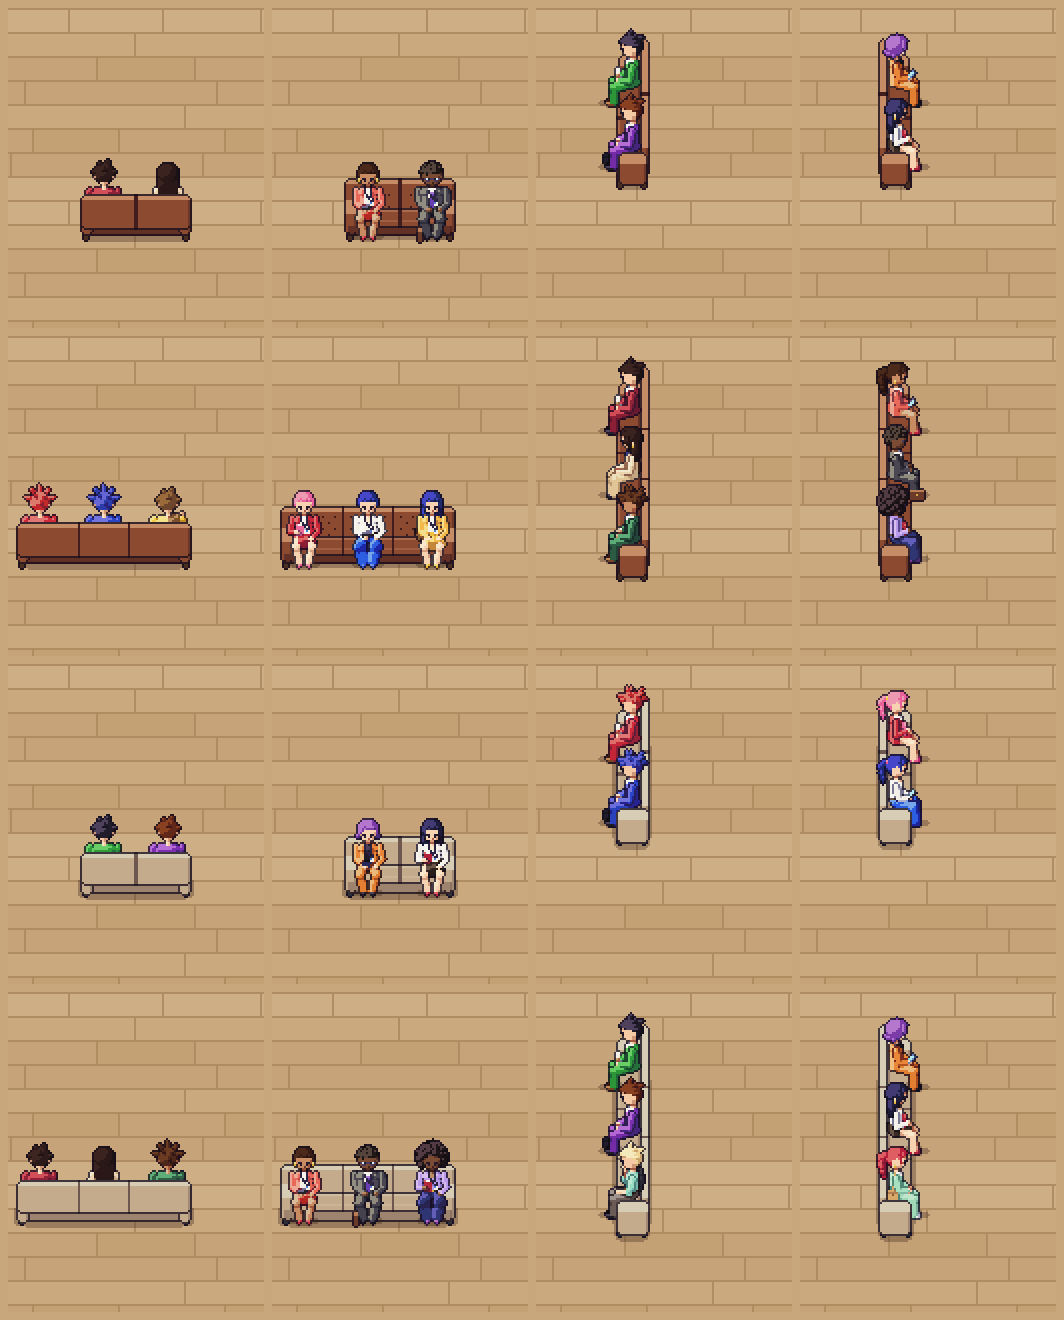
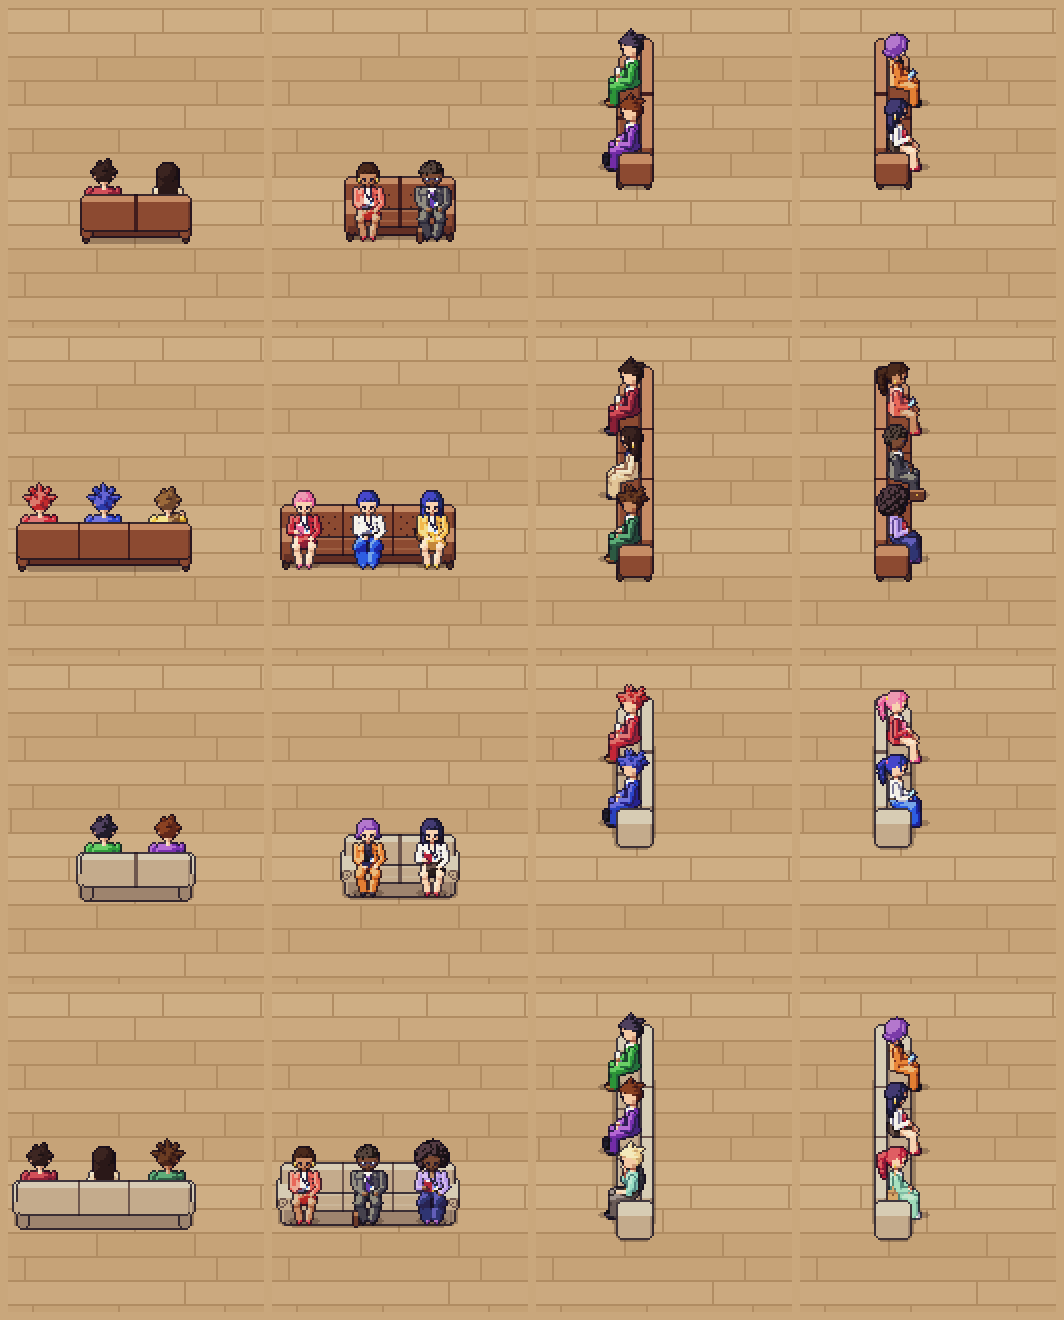
feat(art): thicken upholstered backs and give the fabric pieces scroll arms
Every leather and fabric armchair and sofa gets a 5px backrest instead of 3px, grown backward so the sitter's back stays put, and arms that run back to its rear. The fabric armchair and sofas drop their feet and go down to the floor, and each arm ends in a roll curling outward with a spiral on its front; the fabric armchair's shadow is square like the sofas' so it shows past the boxier body.

diff --git a/tools/art/domain/upholstery.ts b/tools/art/domain/upholstery.ts
@@ -16,6 +16,8 @@ import { SEAT_HEIGHT, type Facing } from '../../../src/art/seating.ts';
 export const SEAT_HALF = 7;
 /** Model u of the backrest's inner face: where a sitter's back rests. */
 export const BACK_FACE = -5;
+/** Model u of the backrest's rear: a backrest 5px thick, behind the face the sitter leans on. */
+const BACK_REAR = -10;
 export const SEAT_UNDER = SEAT_HEIGHT - 2;
 export const ARM_TOP = SEAT_HEIGHT + 4;
 export const SEAT_SPAN: Span = [-SEAT_HALF, SEAT_HALF];
@@ -32,7 +34,6 @@ export function armLayer(side: 1 | -1): (facing: Facing) => Layer {
 
 export const LEATHER = makeRamp('#8c4a31');
 export const LEATHER_FEET = makeRamp('#4a2e22');
-const FABRIC_FEET = makeRamp('#2b2f3a');
 
 /** The beige of the fabric armchair and sofas (the reference sofa), and the color the pack exports them in. */
 export const DEFAULT_FABRIC_COLOR = '#c4ab8c';
@@ -67,15 +68,37 @@ function tufted(seats: number, facing: Facing, inner: number, half: number): (po
   };
 }
 
+/** The roll that tops a fabric arm: how tall it is and how far it curls out past the post under it. */
+const ROLL_HEIGHT = 6;
+const ROLL_OUT = 2;
+
+/**
+ * The spiral on the front of a roll, as seen from the front, counted from the arm's outer edge; `#` is the deep tone
+ * of the ramp, so a recolor moves it with the rest.
+ */
+const SCROLL = ['.###.', '#...#', '#.#.#', '#..#.', '.##..'];
+
+/** The front of a roll curls in from its outer side; on the sitter's right (+1) that is the left of the screen. */
+function scroll(side: 1 | -1, ramp: Ramp): (point: SurfacePoint, color: Rgba) => Rgba {
+  return (point, color) => {
+    if (point.face !== 'forward') return color;
+    const fromOuter = side > 0 ? point.col : point.width - 1 - point.col;
+    return SCROLL[point.row]?.[fromOuter] === '#' ? ramp.deep : color;
+  };
+}
+
 export type UpholsteryStyle = 'leather' | 'fabric';
 
 interface Style {
   readonly ramp: Ramp;
-  readonly feet: Ramp;
+  /** Leather stands on short dark feet; the fabric body goes down to the floor. */
+  readonly feet: Ramp | null;
   readonly top: number;
-  /** Rolled leather arms stop short of the back; fabric ones are boxes from back to front. */
+  /** Arms run from the backrest's rear; the leather ones stop short of the front. */
   readonly armU: Span;
   readonly body: Span;
+  /** Fabric arms end in a roll that curls outward, a spiral on its front. */
+  readonly scrolled: boolean;
   /** Leather backs are buttoned; fabric ones plain. */
   readonly buttoned: boolean;
   /** Contact shadow reach: the boxy fabric body covers more of the floor, so its shadow spreads further. */
@@ -114,14 +137,15 @@ function seamed(seats: number, facing: Facing, inner: number, ramp: Ramp, shade?
 
 function style(kind: UpholsteryStyle, color: string): Style {
   if (kind === 'leather') {
-    return { ramp: LEATHER, feet: LEATHER_FEET, top: SEAT_HEIGHT + 12, armU: [-7, 6], body: [3, SEAT_UNDER], buttoned: true, shadowU: [-8, 7], shadowMargin: 0 };
+    return { ramp: LEATHER, feet: LEATHER_FEET, top: SEAT_HEIGHT + 12, armU: [BACK_REAR, 6], body: [3, SEAT_UNDER], scrolled: false, buttoned: true, shadowU: [BACK_REAR, 7], shadowMargin: 0 };
   }
-  return { ramp: makeRamp(color), feet: FABRIC_FEET, top: SEAT_HEIGHT + 11, armU: [-8, 7], body: [2, SEAT_UNDER], buttoned: false, shadowU: [-10, 10], shadowMargin: 2 };
+  return { ramp: makeRamp(color), feet: null, top: SEAT_HEIGHT + 11, armU: [BACK_REAR, 7], body: [0, SEAT_UNDER], scrolled: true, buttoned: false, shadowU: [BACK_REAR - 2, 10], shadowMargin: 2 };
 }
 
 /**
- * A padded seat of `seats` places on short dark feet: a body, one cushion per seat, a back and an
- * arm at each end. `color` paints the fabric one; the leather keeps its own.
+ * A padded seat of `seats` places: a body, one cushion per seat, a back and an arm at each end, the leather one on
+ * short dark feet, the fabric one down to the floor with rolled arms. `color` paints the fabric one; the leather keeps
+ * its own.
  */
 export function upholsteredModel(kind: UpholsteryStyle, seats: number, facing: Facing, color = DEFAULT_FABRIC_COLOR): FurnitureModel {
   const s = style(kind, color);
@@ -139,16 +163,32 @@ export function upholsteredModel(kind: UpholsteryStyle, seats: number, facing: F
   };
   const feetV = along([half - 3, half - 1]);
   const feet: Box[] = [];
-  for (const u of [[5, 7], [-7, -5]] as const) for (const v of [feetV, mirror(feetV)]) feet.push({ u, v, y: [0, s.body[0]], ramp: s.feet, side: 'base' });
+  if (s.feet !== null) {
+    for (const u of [[5, 7], [BACK_REAR + 1, BACK_REAR + 3]] as const) for (const v of [feetV, mirror(feetV)]) feet.push({ u, v, y: [0, s.body[0]], ramp: s.feet, side: 'base' });
+  }
   const arm = (side: 1 | -1): Part => {
-    const v = along([half - armWidth, half]);
-    return { layer: armLayer(side), boxes: [{ u: s.armU, v: side > 0 ? v : mirror(v), y: [s.body[0], ARM_TOP], ramp: s.ramp, top: 'light', side: 'base', rounded: true }] };
+    const onSide = (span: Span): Span => (side > 0 ? along(span) : mirror(along(span)));
+    const v = onSide([half - armWidth, half]);
+    if (!s.scrolled) {
+      return { layer: armLayer(side), boxes: [{ u: s.armU, v, y: [s.body[0], ARM_TOP], ramp: s.ramp, top: 'light', side: 'base', rounded: true }] };
+    }
+    // A post up from the floor, and on it the roll, wider by ROLL_OUT toward the outside.
+    return {
+      layer: armLayer(side),
+      boxes: [
+        // From behind the post is the body's own back, in its tone, so it does not read as a leg.
+        { u: s.armU, v, y: [s.body[0], ARM_TOP - ROLL_HEIGHT], ramp: s.ramp, side: 'base', rounded: true, shade: (point, c) => (point.face === 'backward' ? s.ramp.shadow : c) },
+        { u: s.armU, v: onSide([half - armWidth, half + ROLL_OUT]), y: [ARM_TOP - ROLL_HEIGHT, ARM_TOP], ramp: s.ramp, top: 'light', side: 'base', rounded: true, shade: scroll(side, s.ramp) },
+      ],
+    };
   };
   return {
-    shadow: { u: s.shadowU, v: along([-(half + s.shadowMargin), half + s.shadowMargin]), shape: seats === 1 ? 'ellipse' : 'rect' },
+    // A body down to the floor is a box on it: its shadow is square like the sofas', or it would hide behind it.
+    shadow: { u: s.shadowU, v: along([-(half + s.shadowMargin), half + s.shadowMargin]), shape: seats === 1 && s.feet !== null ? 'ellipse' : 'rect' },
     parts: [
-      { boxes: feet },
-      { boxes: [{ u: [-7, 7], v: along([-(half - 1), half - 1]), y: s.body, ramp: s.ramp, side: 'shadow', rounded: true }] },
+      ...(feet.length > 0 ? [{ boxes: feet }] : []),
+      // On feet the body sits a pixel in from the back; down to the floor it is flush with it, one block from behind.
+      { boxes: [{ u: [s.feet === null ? BACK_REAR : BACK_REAR + 1, 7], v: along([-(half - 1), half - 1]), y: s.body, ramp: s.ramp, side: 'shadow', rounded: true }] },
       {
         boxes: [
           { u: [BACK_FACE + 1, 7], v: along([-innerHalf, innerHalf]), y: [SEAT_UNDER, SEAT_HEIGHT], ramp: s.ramp, top: 'base', side: 'base', rounded: true, shade: seamed(seats, facing, innerHalf, s.ramp, cushion) },
@@ -156,7 +196,7 @@ export function upholsteredModel(kind: UpholsteryStyle, seats: number, facing: F
       },
       {
         layer: backrestLayer,
-        boxes: [{ u: [-8, BACK_FACE], v: along([-half, half]), y: [SEAT_UNDER, s.top], ramp: s.ramp, top: 'light', side: 'base', rounded: true, shade: seamed(seats, facing, innerHalf, s.ramp, s.buttoned ? tufted(seats, facing, innerHalf, half) : undefined) }],
+        boxes: [{ u: [BACK_REAR, BACK_FACE], v: along([-half, half]), y: [SEAT_UNDER, s.top], ramp: s.ramp, top: 'light', side: 'base', rounded: true, shade: seamed(seats, facing, innerHalf, s.ramp, s.buttoned ? tufted(seats, facing, innerHalf, half) : undefined) }],
       },
       arm(1),
       arm(-1),

diff --git a/tools/art/domain/sofas.test.ts b/tools/art/domain/sofas.test.ts
@@ -4,6 +4,7 @@ import { SOFA } from '../../../src/game/artContract.ts';
 import { chairSprite } from './chairs.ts';
 import { SOFA_MATERIALS, SOFA_SEATS, sofaSprite, type SofaSprite } from './sofas.ts';
 import { DEFAULT_FABRIC_COLOR, LEATHER } from './upholstery.ts';
+import { makeRamp } from './color.ts';
 import { PixelBuffer } from '../../../src/art/pixelBuffer.ts';
 import { FACINGS, SEAT_HEIGHT } from '../../../src/art/seating.ts';
 
@@ -267,5 +268,89 @@ test('a sofa of two or three seats has wider arms than its armchair', () => {
         assert.ok(wide > narrow, `${material}-${seats} ${side}: arm ${wide}px, armchair ${narrow}px`);
       }
     }
+  }
+});
+
+const UPHOLSTERED = SOFA_MATERIALS.flatMap((material) => [
+  { name: `chair-${material}`, material, sprite: (facing: (typeof FACINGS)[number]) => chairSprite(material, facing) },
+  ...SOFA_SEATS.map((seats) => ({ name: `${material}-${seats}`, material, sprite: (facing: (typeof FACINGS)[number]) => sofaSprite(material, seats, facing) })),
+]);
+
+/** First and last opaque column of a row, or null when the row is empty. */
+function rowSpan(image: PixelBuffer, y: number): readonly [number, number] | null {
+  let first = -1;
+  let last = -1;
+  for (let x = 0; x < image.width; x += 1) {
+    if (image.alphaAt(x, y) !== 255) continue;
+    if (first < 0) first = x;
+    last = x;
+  }
+  return first < 0 ? null : [first, last];
+}
+
+function topRow(image: PixelBuffer): number {
+  let y = 0;
+  while (y < image.height && rowSpan(image, y) === null) y += 1;
+  return y;
+}
+
+test('seen from the side, every upholstered backrest is 5px thick and the near arm runs back to its rear', () => {
+  for (const { name, sprite } of UPHOLSTERED) {
+    const image = composite(sprite('right'));
+    const top = topRow(image);
+    // Under its rounded top edge the backrest alone stands above the arms: ink, 5px of upholstery, ink.
+    const back = rowSpan(image, top + 2)!;
+    assert.equal(back[1] - back[0] + 1, 5 + 2, `${name}: backrest ${back[1] - back[0] - 1}px thick`);
+    // Down at the seat, the arm in front starts where the backrest does.
+    const seatY = sprite('right').ground.y;
+    const arm = rowSpan(image, seatY)!;
+    assert.equal(arm[0], back[0], `${name}: the arm starts at x ${arm[0]}, the backrest at ${back[0]}`);
+  }
+});
+
+test('the fabric armchair and sofas go down to the floor, the leather ones stand on feet', () => {
+  for (const { name, material, sprite } of UPHOLSTERED) {
+    for (const facing of FACINGS) {
+      const image = composite(sprite(facing));
+      let bottom = image.height - 1;
+      while (rowSpan(image, bottom) === null) bottom -= 1;
+      let opaque = 0;
+      for (let x = 0; x < image.width; x += 1) if (image.alphaAt(x, bottom) === 255) opaque += 1;
+      // Feet leave gaps under the body; a body down to the floor fills the row but for its rounded corners.
+      let widest = 0;
+      for (let y = 0; y < image.height; y += 1) {
+        const span = rowSpan(image, y);
+        if (span !== null) widest = Math.max(widest, span[1] - span[0] + 1);
+      }
+      const full = opaque >= widest * 0.6;
+      assert.equal(full, material === 'fabric', `${name} ${facing}: ${opaque}px of ${widest} on the floor`);
+    }
+  }
+});
+
+test('a fabric arm ends in a roll that curls outward, a spiral on its front, the same on both sides', () => {
+  const deep = makeRamp(DEFAULT_FABRIC_COLOR).deep;
+  for (const { name, material, sprite } of UPHOLSTERED) {
+    if (material !== 'fabric') continue;
+    const { back, front, ground } = sprite('down');
+    const image = composite({ back, front });
+    // Across the roll the silhouette is wider than at the floor.
+    const roll = rowSpan(image, ground.y - 9)!;
+    const floor = rowSpan(image, ground.y - 1)!;
+    assert.ok(roll[0] < floor[0] && roll[1] > floor[1], `${name}: roll ${roll}, floor ${floor}`);
+    const spiral = (x: number, y: number): boolean => {
+      const p = image.getPixel(x, y);
+      return p.a === 255 && p.r === deep.r && p.g === deep.g && p.b === deep.b;
+    };
+    const left: string[] = [];
+    const right: string[] = [];
+    for (let y = 0; y < image.height; y += 1) {
+      for (let dx = 0; dx < 7; dx += 1) {
+        if (spiral(roll[0] + dx, y)) left.push(`${dx},${y}`);
+        if (spiral(roll[1] - dx, y)) right.push(`${dx},${y}`);
+      }
+    }
+    assert.ok(left.length >= 8, `${name}: ${left.length} spiral pixels`);
+    assert.deepEqual(right, left, `${name}: the arms mirror each other`);
   }
 });
